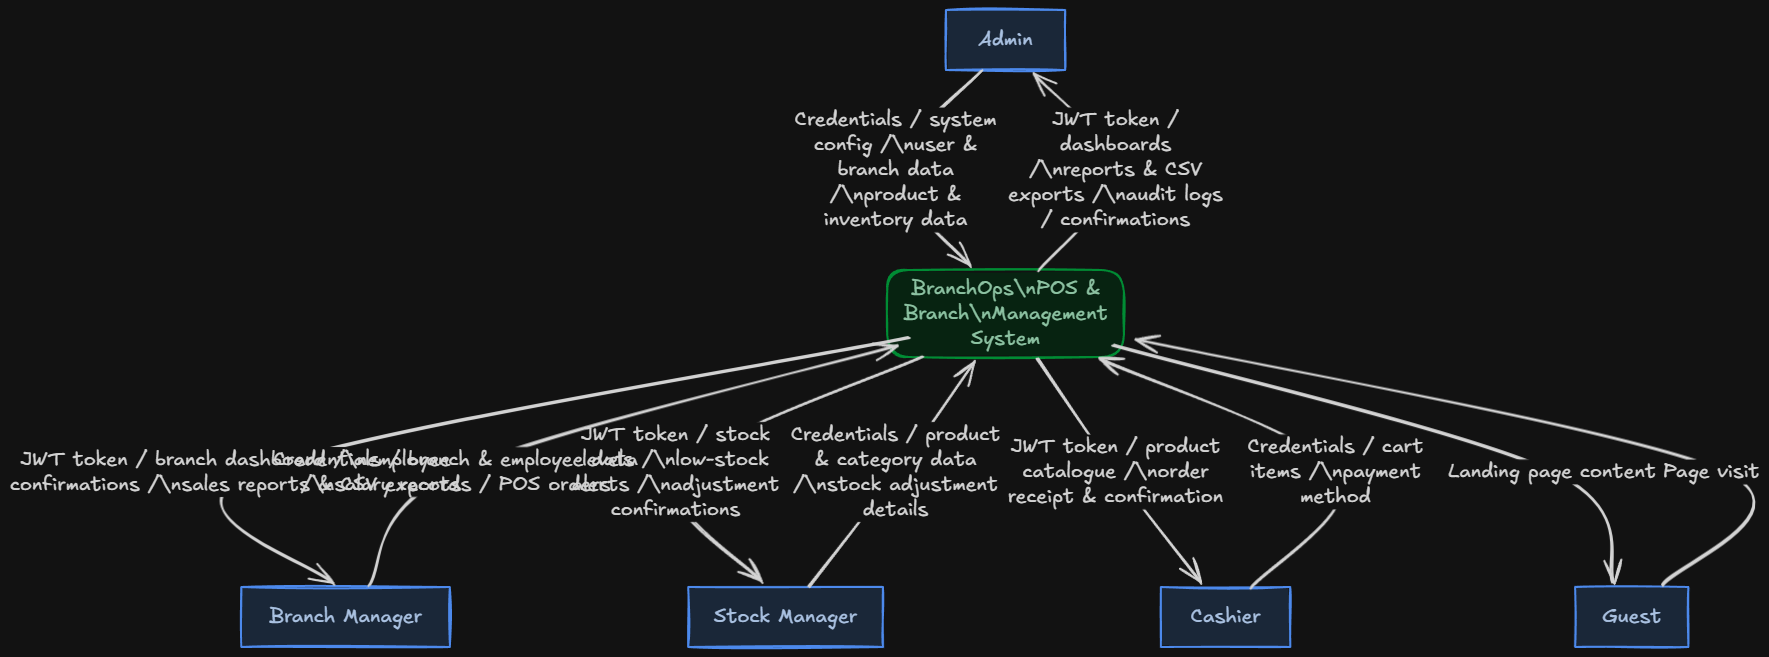
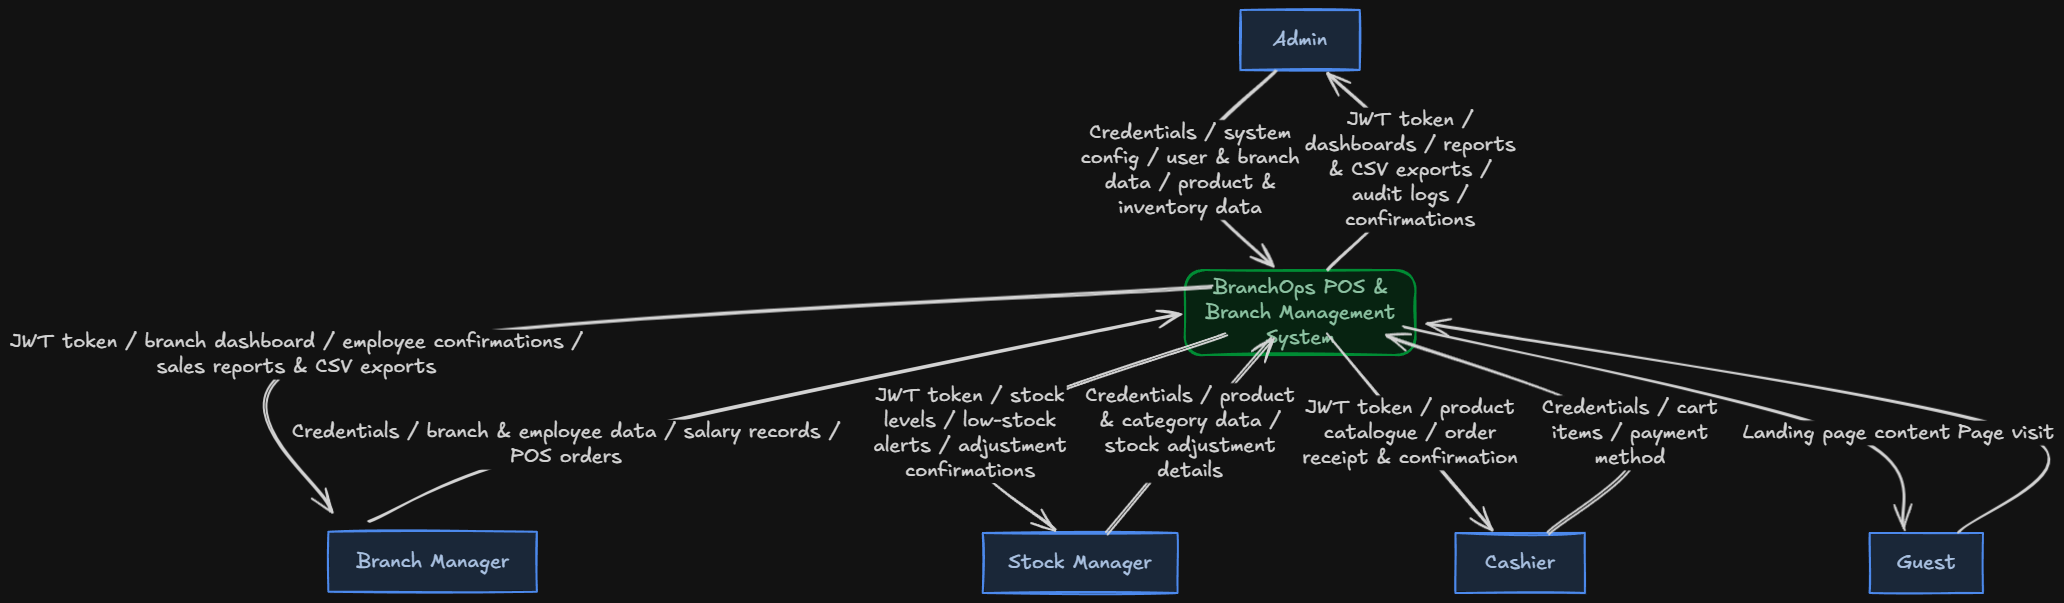
add lvl1 dfd diagram and diagrams overview file

Changed region(s): [[0.0, 0.0, 0.9949, 1.0], [0.1244, 0.806, 0.2798, 1.0], [0.6529, 0.806, 0.7773, 1.0]]

diff --git a/diagrams/diagrams-overview.md b/diagrams/diagrams-overview.md
@@ -1,0 +1,66 @@
+# BranchOps — Diagrams Overview
+
+All diagrams are located in the [`diagrams/`](./diagrams) directory as `.mmd` (Mermaid) files.
+
+---
+
+## Use Case Diagram
+**File:** [`diagrams/use-case-diagram.mmd`](./diagrams/use-case-diagram.mmd)
+
+Describes what each actor can do within the system. Five roles are identified — Admin, Branch Manager, Stock Manager, Cashier, and Guest — each mapped to the features they can access. Admin has full access across all ten use case groups, while other roles have progressively narrower permissions derived from the route-permission rules defined in `route-permissions.ts`.
+
+---
+
+## Class Diagram
+**File:** [`diagrams/class-diagram.mmd`](./diagrams/class-diagram.mmd)
+
+Models the object-oriented structure of the domain layer in `BranchOps.Domain`. Eleven entities inherit from `BaseDomainObject` (which provides `Id`, `CreatedAt`, and `UpdatedAt`), while `AuditLog` stands alone. The diagram captures all properties, four enumerations (`UserRole`, `OrderStatus`, `PaymentMethod`, `StockAdjustmentType`), and the associations between entities such as composition, aggregation, and directed references.
+
+---
+
+## Entity Relationship Diagram
+**File:** [`diagrams/er-diagram.mmd`](./diagrams/er-diagram.mmd)
+
+Represents the relational database schema backing the PostgreSQL instance. All thirteen tables are shown with their full column definitions, data types, and PK/FK markers. Enum columns include inline value comments for readability. Cardinalities reflect the actual EF Core navigation properties — notably the two labeled edges from `User` to `Order` (creates vs. cancels) and the one-to-zero-or-one link between `User` and `Employee`.
+
+---
+
+## Block Diagram
+**File:** [`diagrams/block-diagram.mmd`](./diagrams/block-diagram.mmd)
+
+Provides a high-level architectural overview of the entire system across five horizontal layers: the React 19 client with its eleven feature modules, the frontend infrastructure stack (React Router, TanStack Query, Zustand, Axios, shadcn/ui, i18next), the twelve ASP.NET Core API controllers, the backend infrastructure (JWT, EF Core, Audit Service, DI, Scalar, Identity), and the PostgreSQL data layer split into eight logical table groups.
+
+---
+
+## Sequence Diagram
+**File:** [`diagrams/sequence-diagram.mmd`](./diagrams/sequence-diagram.mmd)
+
+Illustrates the runtime message flow between actors and system components across five key scenarios: user login and JWT issuance, a normal authenticated API request, silent token refresh on 401, creating a POS order (including the database transaction that writes the order, deducts stock, and records a `StockAdjustment`), and a manual stock adjustment submitted by a Stock Manager — all with audit log entries written at the end of each mutating flow.
+
+---
+
+## Data Flow Diagram
+**File:** [`diagrams/dfd-diagram.mmd`](./diagrams/dfd-diagram.mmd)
+
+A Level-1 DFD showing how data moves between the four external actors and seven internal processes. Each process (Authentication, Branch & Employee Management, Product Catalogue, POS Orders, Inventory, Reports, Audit Trail) is connected to the data stores it reads from or writes to. Color coding distinguishes external entities (blue), processes (green), and data stores (yellow) for quick visual scanning.
+
+---
+
+## Context Diagram
+**File:** [`diagrams/context-diagram.mmd`](./diagrams/context-diagram.mmd)
+
+A Level-0 DFD treating BranchOps as a single black-box process surrounded by its five external actors. Each actor's inbound data (credentials, requests, form submissions) and outbound data (JWT tokens, reports, confirmations, page content) are labeled on the arrows. It serves as the entry point for understanding system boundaries before diving into the more detailed Level-1 DFD or sequence diagrams.
+
+---
+
+## Level 1 DFD
+**File:** [`diagrams/level1-dfd-diagram.mmd`](./diagrams/level1-dfd-diagram.mmd)
+
+Decomposes the system into fifteen numbered sub-processes grouped under seven functional areas (Authentication, Branch & Employee Management, Product Catalogue, POS Orders, Inventory, Reports, Audit Trail). External entities sit on the left, processes in the centre, and seven data stores on the right. Each arrow carries a precise data-flow label, making it straightforward to trace exactly which process reads from or writes to each store.
+
+---
+
+## Activity Diagram
+**File:** [`diagrams/activity-diagram.mmd`](./diagrams/activity-diagram.mmd)
+
+Traces the full lifecycle of a user session from app launch to logout, branching into three role-specific flows: Admin/Branch Manager navigating the dashboard and exporting reports, the Cashier building a cart and completing a POS order with automatic stock deduction, and the Stock Manager viewing stock levels and submitting adjustments. Decision nodes cover token expiry, silent refresh, out-of-stock errors, and low-stock alert triggers.